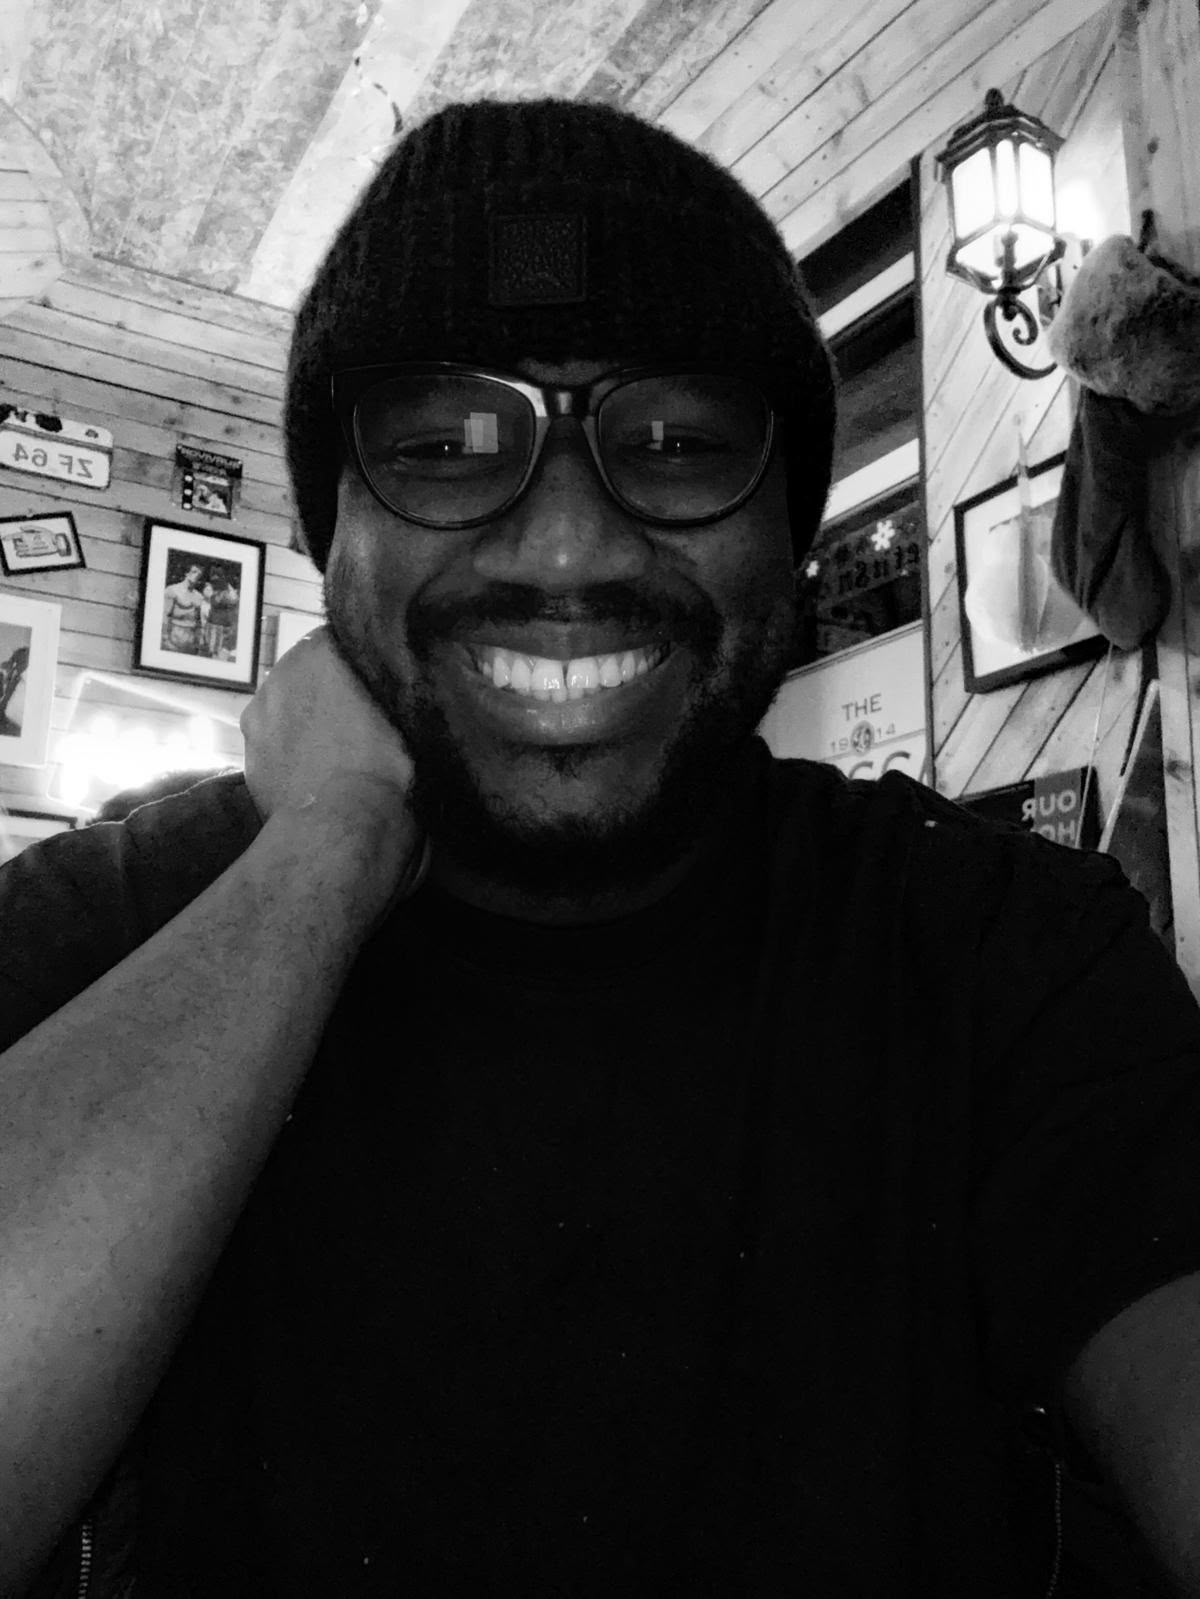
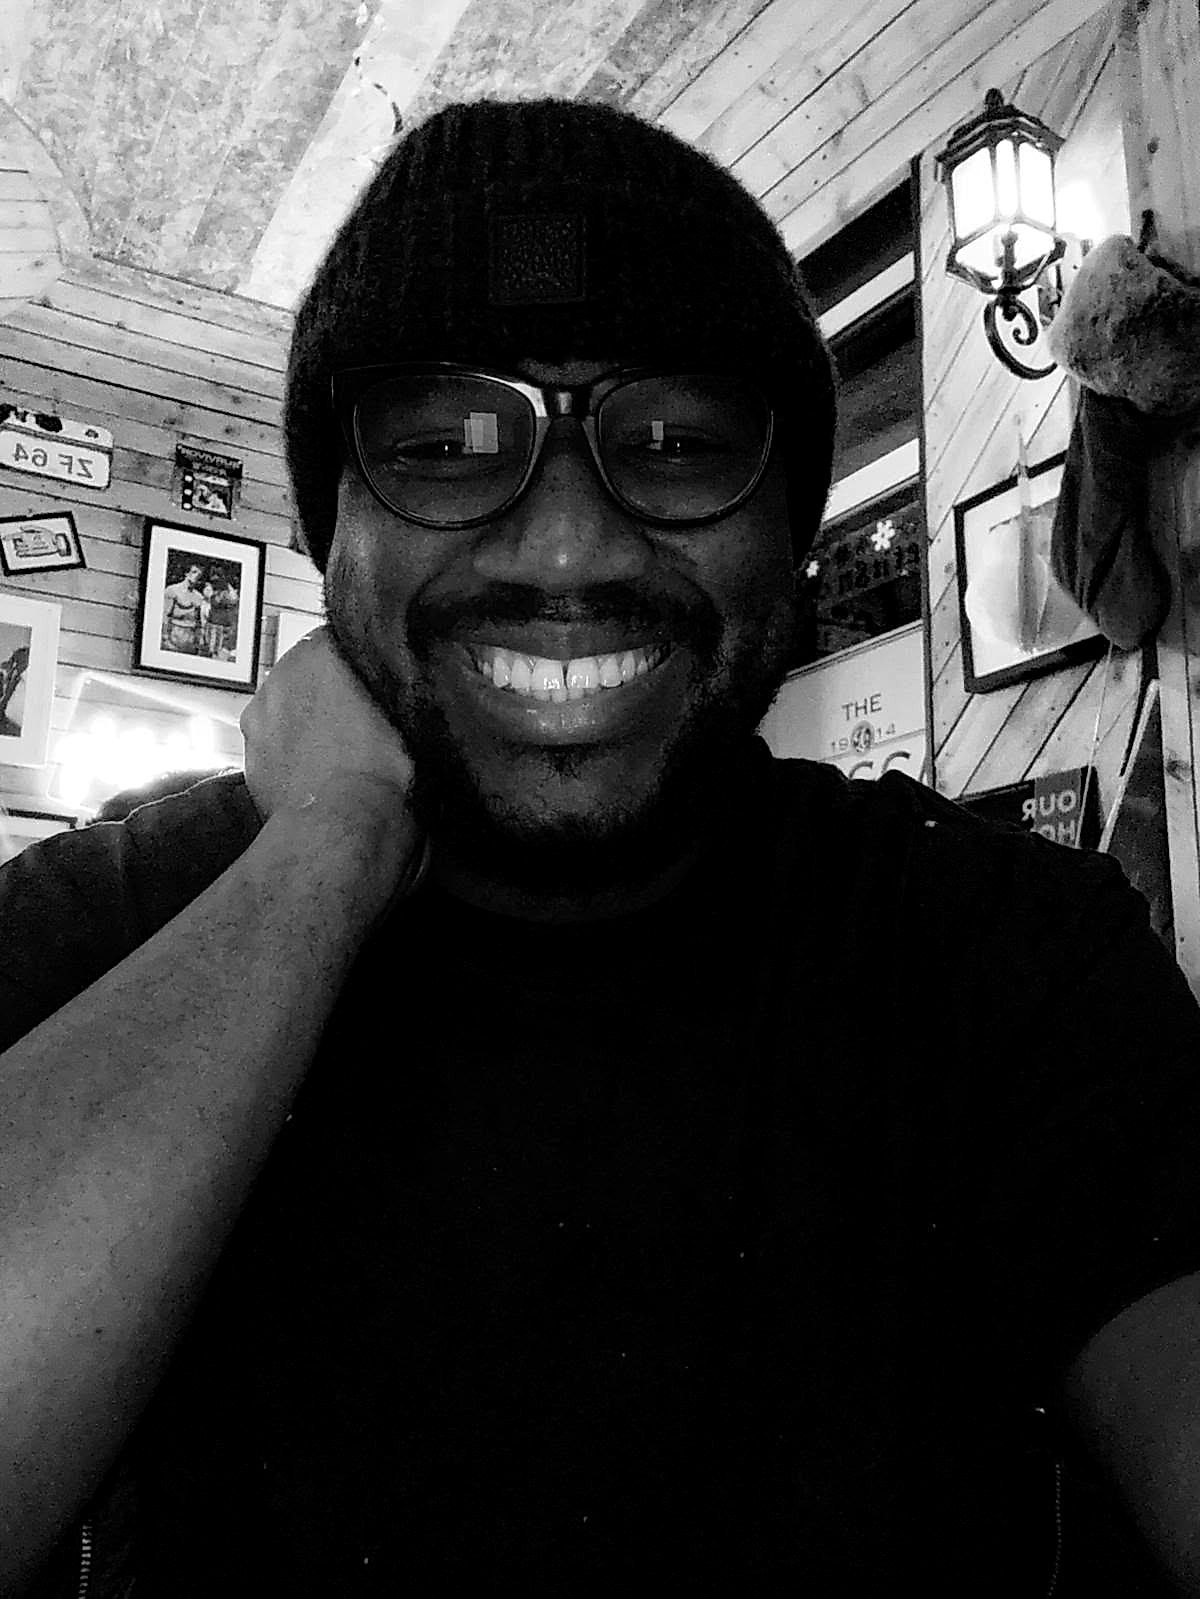
12108c04-c019-4591-989a-331ba7ec615f

diff --git a/src/components/portfolio/about-content.tsx b/src/components/portfolio/about-content.tsx
@@ -41,6 +41,7 @@ export function AboutContent() {
                   src="/images/james-portrait.jpg"
                   alt="James Edeoghon smiling, wearing glasses and a beanie"
                   fill
+                  unoptimized
                   sizes="(max-width: 1024px) 90vw, 440px"
                   className="object-cover"
                   priority

diff --git a/src/components/portfolio/about-teaser.tsx b/src/components/portfolio/about-teaser.tsx
@@ -18,6 +18,7 @@ export function AboutTeaser() {
                   src="/images/james-portrait.jpg"
                   alt="James Edeoghon smiling, wearing glasses and a beanie"
                   fill
+                  unoptimized
                   sizes="(max-width: 1024px) 90vw, 440px"
                   className="object-cover"
                 />

diff --git a/src/components/portfolio/hero.tsx b/src/components/portfolio/hero.tsx
@@ -98,6 +98,7 @@ export function Hero() {
                 alt="Portrait of James Edeoghon, author and medical doctor"
                 fill
                 priority
+                unoptimized
                 sizes="(max-width: 640px) 290px, 330px"
                 className="object-cover"
               />
